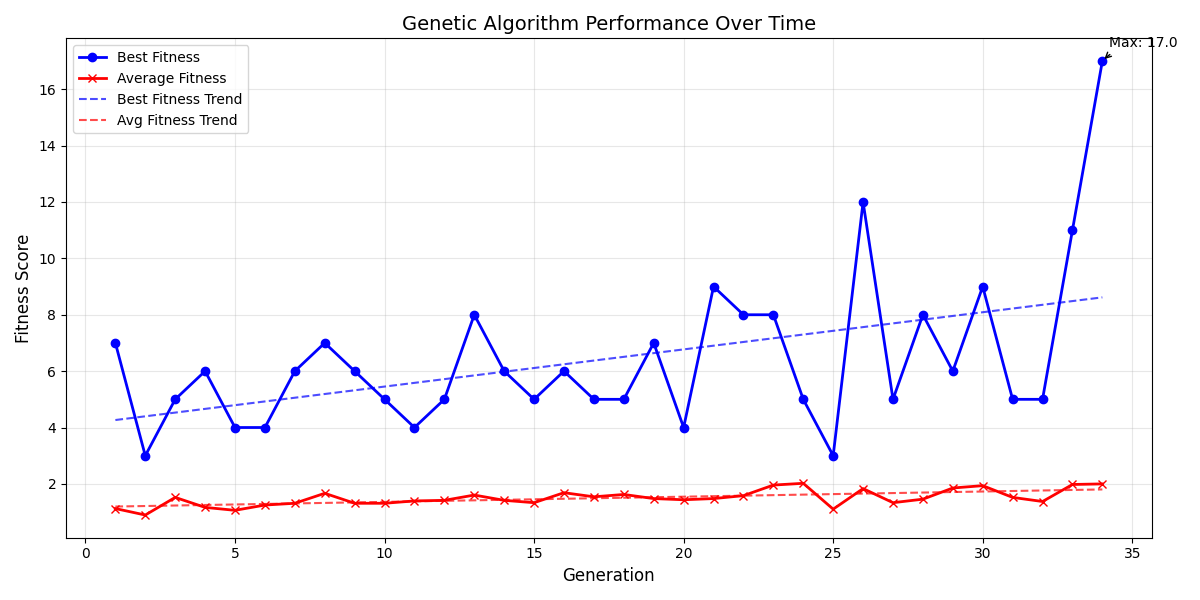
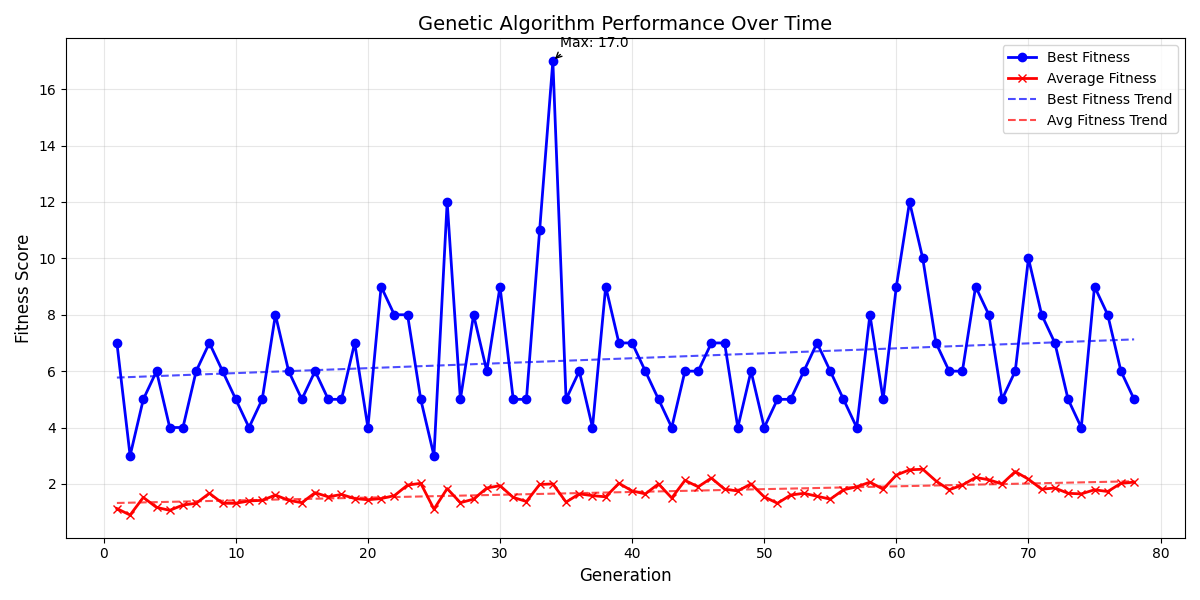
More GA parameter updates, refined tracking, reduced view distance

diff --git a/mc_interface/minekour/neural_net.py b/mc_interface/minekour/neural_net.py
@@ -18,17 +18,17 @@ class ControlNeuralNetwork:
         Args:
             weights: List of weight matrices for each layer
             hidden_layer_sizes: List of integers specifying size of each hidden layer
-            radial_distance: Radial distance for cubic block volume (input size = (2*radial_distance+1)^3 + 2)
+            radial_distance: Radial distance for cubic block volume (input size = (2*radial_distance+1)^3 + 1)
         """
         self.weights = weights
         self.hidden_layer_sizes = hidden_layer_sizes
         self.radial_distance = radial_distance
-        self.input_size = (2 * radial_distance + 1) ** 3 + 2  # Block volume + yaw and pitch
+        self.input_size = (2 * radial_distance + 1) ** 3 + 1  # Block volume + yaw and pitch
     
     def run_nn(self, 
               block_inputs: List[float],
               yaw: float, 
-              pitch: float) -> List[Union[bool, int, float]]:
+              pitch: float = 0) -> List[Union[bool, int, float]]:
         """
         Process inputs through the neural network
         
@@ -47,7 +47,7 @@ class ControlNeuralNetwork:
         block_inputs = [int(block) for block in block_inputs]
         
         # Combine inputs
-        inputs = np.array(block_inputs + [yaw, pitch])
+        inputs = np.array(block_inputs + [yaw])
         
         # Process through hidden layers
         current_layer = inputs
@@ -77,7 +77,7 @@ class ControlNeuralNetwork:
             results.append(2)
         
         # 2 continuous outputs (using tanh to get values in [-1, 1])
-        for i in range(6, 8):
+        for i in range(6, 7):
             # Apply the periodic transformation: mod(-6arctan(x/10000),pi)-pi/2
             x = output_layer[i]
             arctanx = np.arctan(x / 10000)    # First apply arctan with scaling
@@ -86,7 +86,7 @@ class ControlNeuralNetwork:
             # Scale to [-1, 1] range
             compressed = transformed * (2/np.pi)
             results.append(compressed)
-        print(f"Yaw: {output_layer[6]}, Pitch: {output_layer[7]}, movement: {output_layer[5]}")
+        # print(f"Yaw: {output_layer[6]}, Pitch: {output_layer[7]}, movement: {output_layer[5]}")
         return results
     
     @staticmethod
@@ -110,20 +110,20 @@ class ControlNeuralNetwork:
                   genes: List[float], 
                   hidden_layer_sizes: List[int],
                   radial_distance: int,
-                  output_size: int = 8):
+                  output_size: int = 7):
         """
         Create a neural network from a flat list of genes
         
         Args:
             genes: Flat list of weights from genetic algorithm
             hidden_layer_sizes: List of integers specifying size of each hidden layer
-            radial_distance: Radial distance for cubic block volume (input size = (2*radial_distance+1)^3 + 2)
+            radial_distance: Radial distance for cubic block volume (input size = (2*radial_distance+1)^3 +1)
             output_size: Number of output nodes (default 8)
             
         Returns:
             MinecraftNeuralNetwork: Initialized neural network
         """
-        input_size = (2 * radial_distance + 1) ** 3 + 2  # Block volume + yaw and pitch
+        input_size = (2 * radial_distance + 1) ** 3 + 1  # Block volume + yaw and pitch
         weights = cls._create_weights_from_genes(genes, input_size, hidden_layer_sizes, output_size)
         return cls(weights, hidden_layer_sizes, radial_distance)
     
@@ -131,15 +131,15 @@ class ControlNeuralNetwork:
     def _create_weights_from_genes(genes: List[float], 
                                   input_size: int,
                                   hidden_layer_sizes: List[int],
-                                  output_size: int = 8) -> List[np.ndarray]:
+                                  output_size: int = 7) -> List[np.ndarray]:
         """
         Convert a flat list of genes (weights) into properly shaped weight matrices
         
         Args:
             genes: Flat list of weights from genetic algorithm
-            input_size: Number of input nodes (block list size + 2 for yaw and pitch)
+            input_size: Number of input nodes (block list size + 1 for yaw and pitch)
             hidden_layer_sizes: List of integers specifying size of each hidden layer
-            output_size: Number of output nodes (default 8)
+            output_size: Number of output nodes (default 7)
             
         Returns:
             List of weight matrices for each layer of the neural network
@@ -169,7 +169,7 @@ class ControlNeuralNetwork:
     @staticmethod
     def get_gene_size(hidden_layer_sizes: List[int], 
                      radial_distance: int,
-                     output_size: int = 8) -> int:
+                     output_size: int = 7) -> int:
         """
         Calculate the total number of genes (weights) needed for the network
         
@@ -181,7 +181,7 @@ class ControlNeuralNetwork:
         Returns:
             Total number of genes needed
         """
-        input_size = (2 * radial_distance + 1) ** 3 + 2  # Block volume + yaw and pitch
+        input_size = (2 * radial_distance + 1) ** 3 + 1  # Block volume + yaw and pitch
         layer_sizes = [input_size] + hidden_layer_sizes + [output_size]
         gene_count = 0
         

diff --git a/main.py b/main.py
@@ -13,19 +13,19 @@ from mc_interface.minekour.neural_net import ControlNeuralNetwork
 from backend.genetic_algorithm import generate_population, evolve_population, evaluate_fitness
 from backend.agent import Agent
 from backend.minecraft_agents import networkCommander, start_agents
-
+from save_figure import save_figure
 # Configuration
-STARTING_GENERATIONS = 34
+STARTING_GENERATIONS = 125 # need to replace this with getting most recent gen from file
 NUM_AGENTS = 48
 NUM_GENERATIONS = 25
 SAVE_EVERY = 1  # Save genes every N generations
 HIDDEN_LAYER_SIZES = [256, 128]
-RADIAL_DISTANCE = 6
+RADIAL_DISTANCE = 5
 MUTATION_RATE = 0.01
 MUTATION_STRENGTH = 0.1
-BATCH_SIZE = 24  # Number of agents to evaluate in parallel
-METRICS_FILE = "fitness_metrics.csv"  # New file for tracking fitness metrics
-GENES_FILE = "backend/weights.npz"
+BATCH_SIZE = 16  # Number of agents to evaluate in parallel
+METRICS_FILE = "fitness_metrics_5_block.csv"  # New file for tracking fitness metrics
+GENES_FILE = "backend/weights_5_block.npz"
 PYTHON_PATH = "/mnt/c/Users/Max Linville/AppData/Local/Programs/Python/Python313/python.exe"
 
 def save_metrics_to_csv(generation: int, best_fitness: float, avg_fitness: float, file_path: str) -> None:
@@ -79,7 +79,7 @@ def load_genes_from_file(file_path: str) -> Dict[str, List[float]]:
         with np.load(file_path) as data:
             # Convert to dictionary with numpy arrays
             return {name: data[name] for name in data.files}
-    except (IOError, ValueError) as e:
+    except (IOError, ValueError, EOFError) as e:
         print(f"Error loading genes file: {e}")
         return {}
         
@@ -254,6 +254,8 @@ def main() -> None:
     end_generation = STARTING_GENERATIONS + NUM_GENERATIONS
     # Generation loop
     subprocess.run([PYTHON_PATH, "C:/Users/Max Linville/Desktop/tile_minecraft.py"]) # tiles minecraft windows
+    # open observation window
+    subprocess.run(["/mnt/c/Users/Max Linville/AppData/Local/Programs/PrismLauncher/prismlauncher.exe", "--launch", f"1.21.4(2)", "--profile", "MoopleMax"])
     try:
         for generation in range(STARTING_GENERATIONS,end_generation):
             print(f"\nGeneration {generation+1}/{end_generation}")
@@ -290,6 +292,7 @@ def main() -> None:
                     mutation_rate=mutation_rate, 
                     mutation_strength=mutation_strength
                 )
+            save_figure()
         
         # Final save
         save_genes_to_file(population, genes_path)
@@ -298,10 +301,7 @@ def main() -> None:
     except KeyboardInterrupt:
         print("Manual exit, closing minecraft clients...")
     finally:
-        subprocess.run([
-            "powershell.exe", "-ExecutionPolicy", "Bypass", "-File", 
-            "C:\\Users\\Max Linville\\Desktop\\killminecraft.ps1"
-        ])    
+        subprocess.run(["powershell.exe", "-ExecutionPolicy", "Bypass", "-File", "C:\\Users\\Max Linville\\Desktop\\killminecraft.ps1"])    
 
 if __name__ == "__main__":
     main()

diff --git a/scratchpad.py b/scratchpad.py
@@ -1,45 +1,3 @@
-import pandas as pd
-import matplotlib.pyplot as plt
-import numpy as np
+import subprocess
 
-# Read CSV file, skipping parameter rows
-df = pd.read_csv('fitness_metrics.csv', skiprows=9)
-
-# Create figure with appropriate size
-plt.figure(figsize=(12, 6))
-
-# Plot best fitness
-plt.plot(df['Generation'], df['Best Fitness'], 'b-', marker='o', linewidth=2, label='Best Fitness')
-
-# Plot average fitness
-plt.plot(df['Generation'], df['Average Fitness'], 'r-', marker='x', linewidth=2, label='Average Fitness')
-
-# Add trendlines
-z1 = np.polyfit(df['Generation'], df['Best Fitness'], 1)
-p1 = np.poly1d(z1)
-plt.plot(df['Generation'], p1(df['Generation']), "b--", alpha=0.7, label='Best Fitness Trend')
-
-z2 = np.polyfit(df['Generation'], df['Average Fitness'], 1)
-p2 = np.poly1d(z2)
-plt.plot(df['Generation'], p2(df['Generation']), "r--", alpha=0.7, label='Avg Fitness Trend')
-
-# Add labels and title
-plt.xlabel('Generation', fontsize=12)
-plt.ylabel('Fitness Score', fontsize=12)
-plt.title('Genetic Algorithm Performance Over Time', fontsize=14)
-plt.grid(True, alpha=0.3)
-plt.legend(loc='best')
-
-# Annotate highest fitness point
-best_gen = df['Best Fitness'].idxmax()
-plt.annotate(f'Max: {df["Best Fitness"].max()}', 
-             xy=(df.loc[best_gen, 'Generation'], df.loc[best_gen, 'Best Fitness']),
-             xytext=(5, 10), textcoords='offset points',
-             arrowprops=dict(arrowstyle='->', connectionstyle='arc3,rad=.2'))
-
-# Save plot
-plt.tight_layout()
-plt.savefig('fitness_over_time.png')
-plt.show()
-
-print("Plot created and saved as 'fitness_over_time.png'")
+subprocess.run(["/mnt/c/Users/Max Linville/AppData/Local/Programs/PrismLauncher/prismlauncher.exe", "--launch", f"1.21.4(2)", "--profile", "MoopleMax"])

diff --git a/save_figure.py b/save_figure.py
@@ -1,0 +1,45 @@
+import pandas as pd
+import matplotlib.pyplot as plt
+import numpy as np
+
+def save_figure():
+    # Read CSV file, skipping parameter rows
+    df = pd.read_csv('fitness_metrics_5_block.csv', skiprows=9)
+    # Create figure with appropriate size
+    plt.figure(figsize=(12, 6))
+
+    # Plot best fitness
+    plt.plot(df['Generation'], df['Best Fitness'], 'b-', marker='o', linewidth=2, label='Best Fitness')
+
+    # Plot average fitness
+    plt.plot(df['Generation'], df['Average Fitness'], 'r-', marker='x', linewidth=2, label='Average Fitness')
+
+    # Add trendlines
+    # z1 = np.polyfit(df['Generation'], df['Best Fitness'], 1)
+    # p1 = np.poly1d(z1)
+    # plt.plot(df['Generation'], p1(df['Generation']), "b--", alpha=0.7, label='Best Fitness Trend')
+
+    # z2 = np.polyfit(df['Generation'], df['Average Fitness'], 1)
+    # p2 = np.poly1d(z2)
+    # plt.plot(df['Generation'], p2(df['Generation']), "r--", alpha=0.7, label='Avg Fitness Trend')
+
+    # Add labels and title
+    plt.xlabel('Generation', fontsize=12)
+    plt.ylabel('Fitness Score', fontsize=12)
+    plt.title('Genetic Algorithm Performance Over Time', fontsize=14)
+    plt.grid(True, alpha=0.3)
+    plt.legend(loc='best')
+
+    # Annotate highest fitness point
+    best_gen = df['Best Fitness'].idxmax()
+    plt.annotate(f'Max: {df["Best Fitness"].max()}', 
+                xy=(df.loc[best_gen, 'Generation'], df.loc[best_gen, 'Best Fitness']),
+                xytext=(5, 10), textcoords='offset points',
+                arrowprops=dict(arrowstyle='->', connectionstyle='arc3,rad=.2'))
+
+    # Save plot
+    plt.tight_layout()
+    plt.savefig('fitness_over_time_5_block.png')
+    plt.show()
+
+    print("Plot created and saved as 'fitness_over_time.png'")

diff --git a/mc_interface/autorun.py b/mc_interface/autorun.py
@@ -83,8 +83,7 @@ def runNet():
     yaw, pitch = PlayerManager.getRotation()
 
     results = net.run_nn(block_inputs=inputs, 
-                         yaw=yaw, 
-                         pitch=pitch)
+                         yaw=yaw)
     
     # convert to playerMotion object
     move = Motion()
@@ -98,7 +97,7 @@ def runNet():
     move.movement_speed = results[5]
     
     move.yaw = 180 * results[6]
-    move.pitch = 90 * results[7]
+    move.pitch = 0
     
     # move player
     PlayerManager.movePlayer(move)
@@ -111,13 +110,13 @@ def stopNet():
 
 # parameters
 hidden_layer_sizes = [256, 128]
-radial_distance = 6
-output_size = 8
+radial_distance = 5
+output_size = 7
 gene_size = ControlNeuralNetwork.get_gene_size(hidden_layer_sizes, radial_distance)
 # Generate random weights (genes)
-input_dim = (2*radial_distance+1)**3 + 2
+input_dim = (2*radial_distance+1)**3 + 1
 scaling_factor = 1/np.sqrt(input_dim)
-timeout = 10 #seconds before giving up
+timeout = 20 #seconds before giving up
 
 # run starts here
 init()

diff --git a/backend/minecraft_agents.py b/backend/minecraft_agents.py
@@ -19,7 +19,8 @@ def start_agents(agents: list[int], location: str):
         Minescript[n]
     
     """
-    for n in agents:
+    for i, n in enumerate(agents):
+        print(f"starting_agent {i}")
         subprocess.run([location, "--launch", f"MinescriptClient{n}", "--profile", f"Minescript{n}"])
 
 # start_agents([_+1 for _ in range(32)], "/mnt/c/Users/Max Linville/AppData/Local/Programs/PrismLauncher/prismlauncher.exe")

diff --git a/backend/genetic_algorithm.py b/backend/genetic_algorithm.py
@@ -77,7 +77,7 @@ def evaluate_fitness(agents: list[Agent]) -> None:
         nn = ControlNeuralNetwork.from_genes(
             agent.get_genes(), 
             hidden_layer_sizes=[256, 128], 
-            radial_distance=6
+            radial_distance=5
         )
         
         # Here you would evaluate the agent's performance in the environment

diff --git a/backend/agent.py b/backend/agent.py
@@ -7,7 +7,7 @@ from typing import List
 
 # global variables
 # Global variables - use neural network to determine gene size
-radial_distance = 6
+radial_distance = 5
 hidden_layer_sizes = [256, 128]
 gene_size = ControlNeuralNetwork.get_gene_size(hidden_layer_sizes, radial_distance)
 

diff --git a/mc_interface/minekour/PlayerManager.py b/mc_interface/minekour/PlayerManager.py
@@ -17,7 +17,7 @@ class PlayerManager:
     """
 
     #constant for defining how far agent can see
-    DETECTION_RANGE = 6
+    DETECTION_RANGE = 5
     block_map = None #none initially, need to set this later
     
     def __generate_cube_coords(p1, p2):
